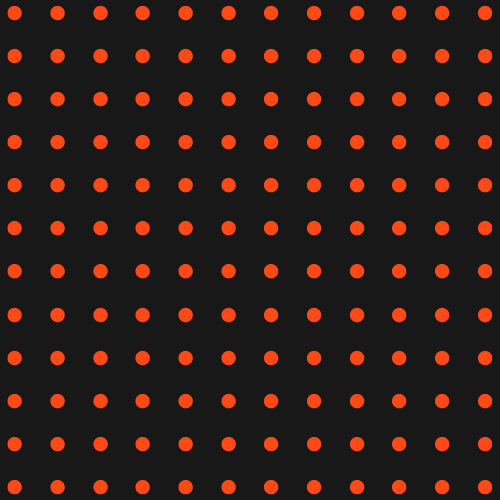
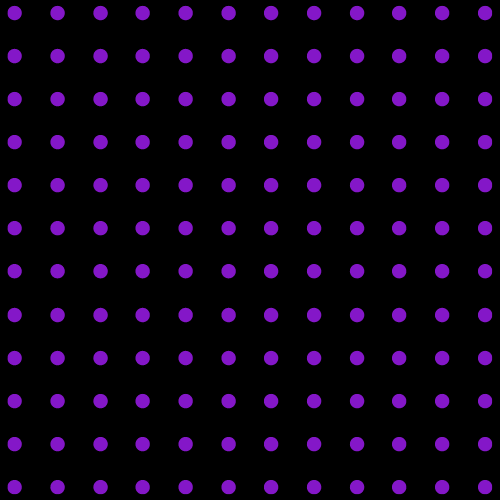
colorchanges

diff --git a/src/styles/Home.module.css b/src/styles/Home.module.css
@@ -1,7 +1,7 @@
 
 .main {
     width: 100%;
-    --primary-color: #FF4A17;
+    --primary-color: #9d00ff;
     position: relative;
     z-index: 2;
 }
@@ -9,7 +9,8 @@
 .box1 {
     width: 100%;
     height: 100vh;
-    background-color: rgb(0, 0, 0);
+    /* background-color: #5b2f76; */
+    background-color: black;
     z-index: -1;
     position: fixed;
 }
@@ -18,8 +19,9 @@
 .box1 img {
     width: 100%;
     height: 100%;
+    /* mix-blend-mode:multiply; */
     object-fit: cover;
-    filter: brightness(120%);
+    filter:saturate(90%) contrast(120%) brightness(35%);
 }
 
 .cursor {
@@ -28,29 +30,29 @@
     left: -5px;
     width: 10px;
     height: 10px;
-    background-color:#FF4A17;
+    background-color:#9d00ff;
     border-radius: 50%;
     pointer-events: none;
     z-index: 999;
-    mix-blend-mode: difference;
+    mix-blend-mode:lighten;
   }
   
 .cursorborder {
     --size: 40px;
     position: fixed;
-    background-color: #ff49170b;
+    background-color: #100218;
     top: calc(var(--size) / -2);
     left: calc(var(--size) / -2);
     width: var(--size);
     height: var(--size);
     border-radius: 50%;
     /* filter: blur(20px); */
-    box-shadow: 0 0 0 1px #ff4917;
+    box-shadow: 0 0 0 1px #9d00ff;
     pointer-events: none;
-    mix-blend-mode: difference;
+    mix-blend-mode:lighten;
     transition: top 0.15s ease-out, left 0.15s ease-out, width 0.15s ease-out,
       height 0.15s ease-out, background-color 0.15s ease-out;
-    z-index: 999;
+    z-index: 998;
   }
 
 /* --------  */
@@ -68,6 +70,7 @@
 
 .page1 h2 {
     font-size: 7rem;
+    text-shadow: 3px 2px 1px #9d00ff4d;
     line-height: 7rem;
     font-weight: bold;
     letter-spacing: 3px;
@@ -163,7 +166,7 @@
     min-width: 1250px; 
     max-width: none; 
     margin: 0 auto;
-    background-color: #181818;
+    background-color: #000000;
     padding-bottom: 10rem;
     /* height: 100vh; */
 }
@@ -173,7 +176,7 @@
     margin: 0 auto;
     width: 80%;
     display: flex;
-    background-color: #0F0F0F;
+    background-color: #0b0a0a;
     transform: translateY(-40%);
     justify-content:space-evenly;
     align-items: center;
@@ -206,7 +209,7 @@
   letter-spacing: 1px;
 }
 .gola{
-  background-color: #ffffff1c;
+  background-color: #9d00ff19;
   width: 20rem;
   right: 0px;
   z-index: -1;
@@ -225,7 +228,7 @@
 .services_help h1{
   margin-left: 2rem;
  font-size: 1.4rem;
- color: rgba(255, 255, 255, 0.461);
+ color: #9D00FF;
  font-weight: bold;
  letter-spacing: 0.5px;
 }
@@ -258,7 +261,7 @@
   border-radius: 10px;
   overflow: hidden;
   transform: translateY(100%);
-  background-color: rgba(0, 0, 0, 0.337);
+  background-color: #0b0a0a;
   filter: blur(50%);
   transition: all 0.2s ease-in-out;
 }
@@ -279,7 +282,7 @@
   border-radius: 10px;
   overflow: hidden;
   /* transform: translateY(100%); */
-  background-color: rgba(0, 0, 0, 0.337);
+  background-color: #0b0a0a;
   filter: blur(50%);
   transition: all 0.2s ease-in-out;
 }
@@ -301,7 +304,7 @@
   border-radius: 10px;
   overflow: hidden;
   transform: translateY(100%);
-  background-color: rgba(0, 0, 0, 0.337);
+  background-color: #0b0a0a;
   filter: blur(50%);
   transition: all 0.2s ease-in-out;
 }
@@ -323,7 +326,7 @@
   border-radius: 10px;
   overflow: hidden;
   /* transform: translateY(100%); */
-  background-color: rgba(0, 0, 0, 0.337);
+  background-color: #0b0a0a;
   filter: blur(50%);
   transition: all 0.2s ease-in-out;
 }
@@ -336,7 +339,8 @@
 }
 
 .services_img1:hover,.services_img2:hover,.services_img3:hover,.services_img4:hover {
-  box-shadow: 0 0 50px #ff49177e;
+  box-shadow: 0 0 50px #9d00ff67;
+  ;
 }
 
 
@@ -350,7 +354,7 @@
   min-width: 1250px; 
   max-width: none; 
   margin: 0 auto;
-  background-color: #181818;
+  background-color: #000000;
   /* height: 100vh; */
 }
 
@@ -358,7 +362,7 @@
   font-size: 1.4rem;
   font-weight: 500;
   text-align: center;
-  color: rgba(255, 255, 255, 0.591);
+  color: #9D00FF;
   margin-bottom: 2rem;
 }
 
@@ -374,8 +378,8 @@
 }
 .elem h1{
   font-size: 2.2rem;
-  font-weight: bold;
-  letter-spacing: 1px;
+  font-weight: 500;
+  letter-spacing: 1.5px;
   z-index: 9;
 }
 .overlay{
@@ -383,7 +387,7 @@
   height: 100%;
   width: 100%;
   top: -100%;
-  background-color: #ff49177d;
+  background-color: #9d00ff3d;
   position: absolute;
   transition: all ease 0.3s;
 }
@@ -397,7 +401,7 @@
   height: 20vw;
   position: fixed;
   top: 30%;
-  right: 20%;
+  right: 10%;
   z-index: 99;
   display: none;
   background-color: transparent;
@@ -417,16 +421,16 @@
   min-width: 1250px; 
   max-width: none; 
   margin: 0 auto;
-  background-color: #181818;
+  background-color: #000000;
   padding-bottom: 4rem;
 }
 
 .page4 h2{
-  color: rgba(255, 255, 255, 0.51);
+  color: #9D00FF;
   font-size: 1.5rem;
   font-weight: 500;
   letter-spacing: 1px;
-  margin-bottom: 1rem;
+  margin-bottom: 0.5rem;
   margin-left: 4rem;
 }
 .page4 h1{
@@ -443,6 +447,7 @@
   width: 20vw;
   height: 20vw;
   border-radius: 10px;
+  border: 1px solid #9d00ff11;
   overflow: hidden;
 }
 
@@ -464,7 +469,6 @@
 }
 .teamcard p{
   font-size: 0.9rem;
-  color: rgba(255, 255, 255, 0.474);
   letter-spacing: 0.5px;
   font-weight: 500;
 }
@@ -496,7 +500,7 @@
   min-width: 1250px; 
   max-width: none; 
   margin: 0 auto;
-  background-color: #181818;
+  background-color: #000000;
   justify-content: space-between;
   padding-bottom: 2rem;
 }
@@ -504,7 +508,7 @@
 .page5gola1{
   width: 10vw;
   height: 10vw;
-  background-color: #ff4917;
+  background-color: #9d00ff9e;
   border-radius: 100%;
   position: absolute;
   left: -5%;
@@ -515,7 +519,7 @@
 .page5gola2{
   width: 25vw;
   height: 25vw;
-  background:linear-gradient(to top left,#ff491748,#dc36087b);
+  background:linear-gradient(to top left,#28043f,#9d00ff58);
   border-radius: 100%;
   position: absolute;
   left: 5%;
@@ -541,7 +545,7 @@
 
 .page5 h2{
   position: relative;
-  color: rgba(255, 255, 255, 0.51);
+  color: #9D00FF;
   font-size: 1.3rem;
   font-weight: 500;
   letter-spacing: 1px;
@@ -603,7 +607,7 @@
   min-width: 1250px; 
   max-width: none; 
   margin: 0 auto;
-  background-color: #181818;
+  background-color: #000000;
   padding-bottom: 6rem;
 }
 
@@ -627,7 +631,7 @@
   font-weight: bold;
   color: transparent;
   letter-spacing: 4px;
-  -webkit-text-stroke: 2px #ff4917;
+  -webkit-text-stroke: 2px #9D00FF;
   background-color: transparent;
   overflow: hidden;
   white-space: nowrap;

diff --git a/src/pages/index.js b/src/pages/index.js
@@ -44,7 +44,7 @@ export default function Home() {
       </Head>
 
       <div className={styles.box1}>
-        <img src="https://arino-html.vercel.app/assets/img/hero_bg.jpeg" alt="" />
+        <img src="/bg5.jpg" alt="" />
       </div>
 
       <Navbar />
@@ -147,7 +147,7 @@ export default function Home() {
               onMouseLeave={handleMouseLeave}
             >
               <div className={styles.overlay}></div>
-              <h1 style={{ display: 'flex' }}>PROJECT ONE <span style={{ display: 'flex', margin: 'auto 0', position: 'absolute', right: '4rem', top: '2rem', scale: '0.7' }}> <Link href='/'><FaGithub style={{ marginRight: '2rem' }} /></Link> <Link href='/'><FaArrowAltCircleRight /></Link></span></h1>
+              <h1 style={{ display: 'flex' }}>We seek diverse perspective</h1>
             </div>
             <div
               className={styles.elem}
@@ -159,7 +159,7 @@ export default function Home() {
               onMouseLeave={handleMouseLeave}
             >
               <div className={styles.overlay}></div>
-              <h1 style={{ display: 'flex' }}>PROJECT TWO <span style={{ display: 'flex', margin: 'auto 0', position: 'absolute', right: '4rem', top: '2rem', scale: '0.7' }}> <Link href='/'><FaGithub style={{ marginRight: '2rem' }} /></Link> <Link href='/'><FaArrowAltCircleRight /></Link></span></h1>
+              <h1 style={{ display: 'flex' }}>The Grids</h1>
             </div>
             <div
               className={styles.elem}
@@ -171,7 +171,7 @@ export default function Home() {
               onMouseLeave={handleMouseLeave}
             >
               <div className={styles.overlay}></div>
-              <h1 style={{ display: 'flex' }}>PROJECT THREE <span style={{ display: 'flex', margin: 'auto 0', position: 'absolute', right: '4rem', top: '2rem', scale: '0.7' }}> <Link href='/'><FaGithub style={{ marginRight: '2rem' }} /></Link> <Link href='/'><FaArrowAltCircleRight /></Link></span></h1>
+              <h1 style={{ display: 'flex' }}>Spothecary</h1>
             </div>
             <div
               className={styles.elem}
@@ -183,11 +183,11 @@ export default function Home() {
               onMouseLeave={handleMouseLeave}
             >
               <div className={styles.overlay}></div>
-              <h1 style={{ display: 'flex' }}>PROJECT FOUR <span style={{ display: 'flex', margin: 'auto 0', position: 'absolute', right: '4rem', top: '2rem', scale: '0.7' }}> <Link href='/'><FaGithub style={{ marginRight: '2rem' }} /></Link> <Link href='/'><FaArrowAltCircleRight /></Link></span></h1>
+              <h1 style={{ display: 'flex' }}>Creative : The Art Director</h1>
             </div>
           </div>
 
-          <Link style={{ fontSize: '1rem', display: 'flex', justifyContent: 'flex-end', paddingTop: '2rem', paddingRight: '4rem', fontWeight: 'bold', letterSpacing: '1px' }} href="/"> See All Projects<span style={{ paddingLeft: '0.5rem' }}> &#8594;</span></Link>
+          <Link style={{ fontSize: '1rem',color:'#9D00FF', display: 'flex', justifyContent: 'flex-end', paddingTop: '2rem', paddingRight: '4rem', fontWeight: '500', letterSpacing: '1px' }} href="/"> See All Projects<span style={{ paddingLeft: '0.5rem',color:'#9D00FF' }}> &#8594;</span></Link>
         </div>
 
         <div className={styles.page4}>

diff --git a/src/components/Footer.js b/src/components/Footer.js
@@ -3,12 +3,12 @@ import React from 'react'
 const Footer = () => {
   return (
     <>
-        <footer style={{backgroundColor:'#181818'}}>
+        <footer style={{backgroundColor:'#000000',overflow:'hidden'}}>
     <div class="w-full max-w-screen-xl mx-auto p-4 md:py-8">
         <div class="sm:flex sm:items-center sm:justify-between">
         <div style={{fontWeight:'bold',fontSize:'2.2rem',letterSpacing:'0.5px'}}>
                 <span style={{fontSize:'1.4rem',fontWeight:'bold',letterSpacing:'0.5px'}}><i>Abhudaya</i></span>
-                <span style={{color:'#FF4A17',fontWeight:'bold',fontSize:'2.2rem'}}>E</span>lite
+                <span style={{color:'#9D00FF',fontWeight:'bold',fontSize:'2.2rem'}}>E</span>lite
             </div>
             <ul class="flex flex-wrap items-center mb-6 text-sm font-medium text-gray-500 sm:mb-0 dark:text-gray-400">
                 <li>

diff --git a/src/components/Navbar.js b/src/components/Navbar.js
@@ -28,7 +28,7 @@ const Navbar = () => {
         <div className={`${styles.navbar} ${visible ? styles.visible : styles.hidden}`}>
             <div className={styles.logo}>
                 <span style={{fontSize:'1.4rem'}}><i>Abhudaya</i></span>
-                <span style={{color:'#FF4A17'}}>E</span>lite
+                <span style={{color:'#9d00ff'}}>E</span>lite
             </div>
             <ul>
                 <li><Link href='/'>HOME</Link></li>

diff --git a/src/components/Navbar.module.css b/src/components/Navbar.module.css
@@ -1,5 +1,5 @@
 .navbar {
-    --primary-color: #FF4A17;
+    --primary-color: #c45fff;
     display: flex;
     justify-content: space-evenly;
     align-items: center;
@@ -50,5 +50,3 @@
     transform: translateY(-100%);
     transition: transform 0.3s ease;
 }
-
-
